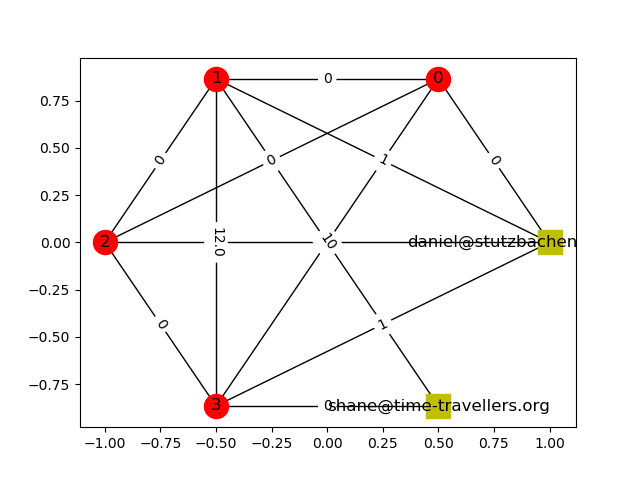
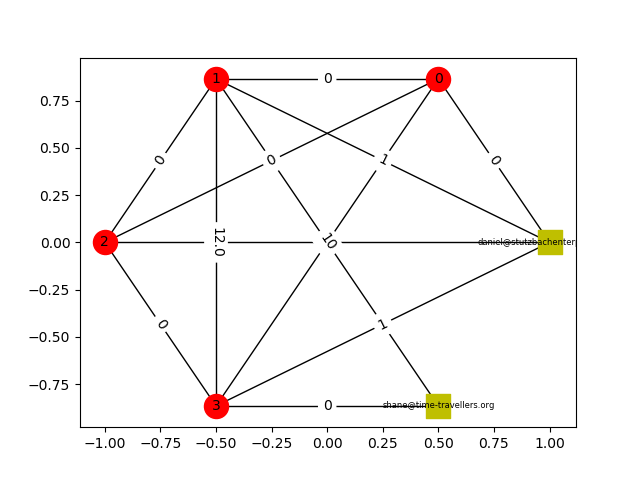
just for pull

diff --git a/src/MIP.py b/src/MIP.py
@@ -202,21 +202,22 @@ class Mip:
         userNcolor = 'y'
         userNshape = 's'
         objNcolor = 'r'
-        objNShape = 'o'
+        objNshape = 'o'
+        userLsize = 6
+        objLsize = 10
         layout = nx.circular_layout(self.mip)  # pick graph layout
 
-        
+
         nx.draw_networkx_nodes(self.mip, pos=layout, nodelist=self.nodeIDsToUsersIds.keys(),
             node_color=userNcolor, node_shape=userNshape)
         nx.draw_networkx_nodes(self.mip, pos=layout, nodelist=self.nodeIDsToObjectsIds.keys(),
-            node_color=objNcolor, node_shape=objNShape)
-        nx.draw_networkx_labels(self.mip,layout,labels={**self.nodeIDsToUsersIds, **self.nodeIDsToObjectsIds})
+            node_color=objNcolor, node_shape=objNshape)
+        nx.draw_networkx_labels(self.mip,layout,labels=self.nodeIDsToUsersIds, font_size=userLsize)
+        nx.draw_networkx_labels(self.mip, layout, labels=self.nodeIDsToObjectsIds, font_size=objLsize)
         labels = {(edge[0],edge[1]): edge[2]['weight'] for edge in self.mip.edges(data=True)}
         nx.draw_networkx_edges(self.mip, pos=layout)
         nx.draw_networkx_edge_labels(self.mip, pos=layout, edge_labels=labels)
 
-        plt.savefig("path.png")
-        #atom
     def __str__(self):
         return f"MIP_{self.alpha}_{self.beta}_{self.gamma}_{self.userDecay}_{self.objectDecay}"
 
